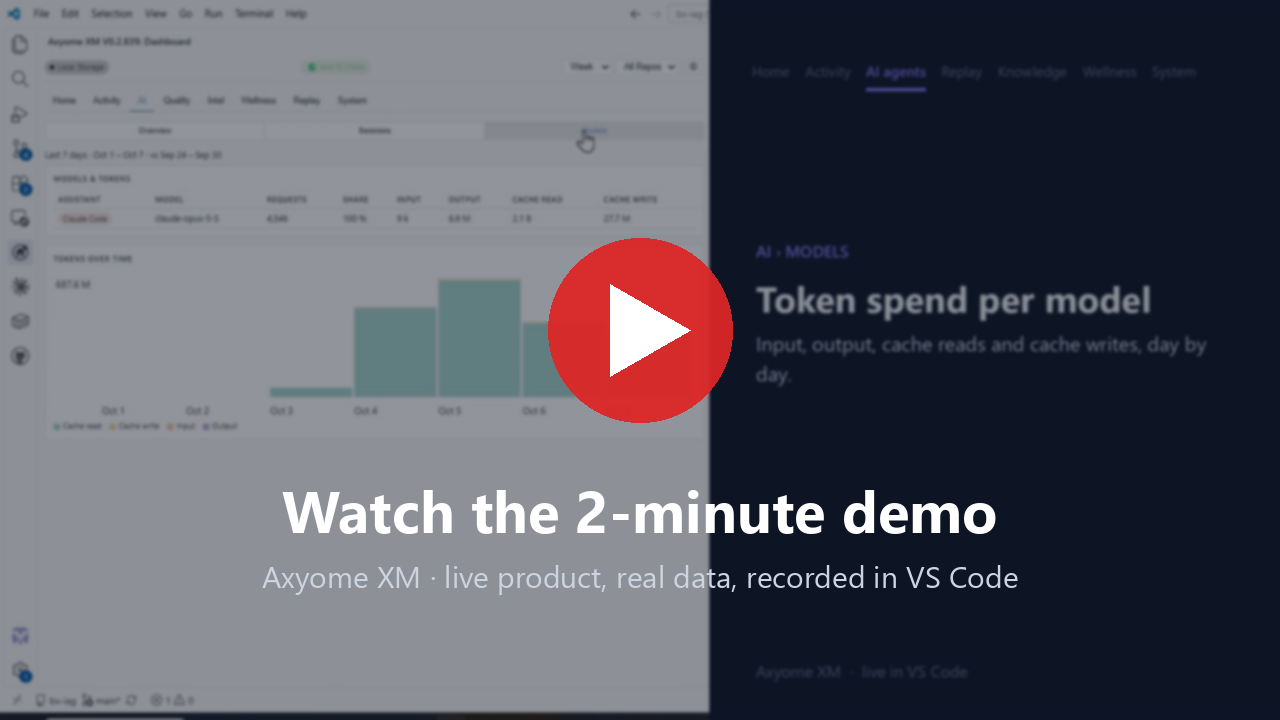
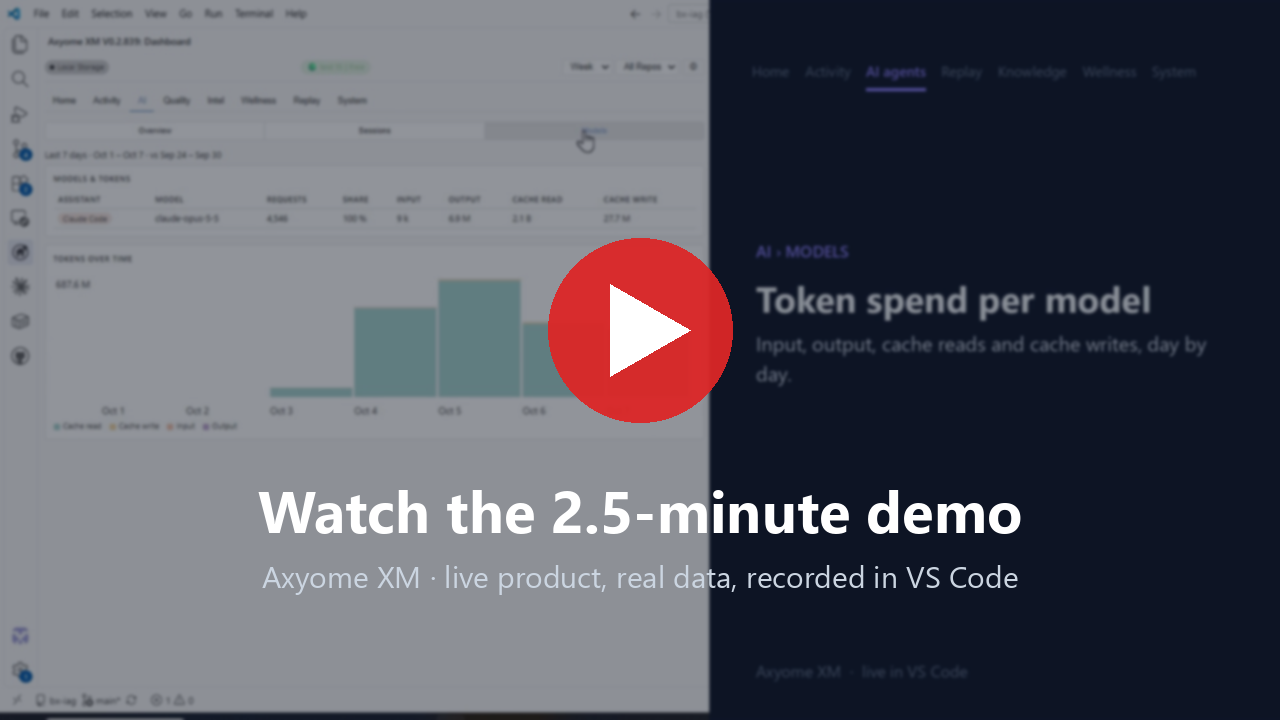
docs: link the re-voiced 2.5-minute demo (XEoMJM7y6J8)
README and demo.md now point to the new demo video (Higgsfield/ElevenLabs
narration) and the thumbnail is regenerated from it.

Changed region(s): [[0.1875, 0.6722, 0.8125, 0.7639]]

diff --git a/docs/demo.md b/docs/demo.md
@@ -1,10 +1,10 @@
 # Demo Scenarios
 
-<a href="https://www.youtube.com/watch?v=q1nN0BN5Jbo">
-  <img src="images/demo-video.png" alt="Watch the 2-minute Axyome XM product demo on YouTube" width="720" />
+<a href="https://www.youtube.com/watch?v=XEoMJM7y6J8">
+  <img src="images/demo-video.png" alt="Watch the 2.5-minute Axyome XM product demo on YouTube" width="720" />
 </a>
 
-▶ **[Watch the 2-minute product demo](https://www.youtube.com/watch?v=q1nN0BN5Jbo)**: live product, real data, recorded in VS Code.
+▶ **[Watch the 2.5-minute product demo](https://www.youtube.com/watch?v=XEoMJM7y6J8)**: live product, real data, recorded in VS Code.
 
 Workflows showing what Axyome XM makes possible. The scenarios below are illustrative: the responses you get depend on your own history.
 
@@ -158,4 +158,4 @@ Copilot calls `axm_wiki_query`, `axm_find_similar_errors`, and `axm_recall_activ
 
 ## Watch the Demo
 
-The 2-minute product demo shows these workflows live: [https://www.youtube.com/watch?v=q1nN0BN5Jbo](https://www.youtube.com/watch?v=q1nN0BN5Jbo)
+The 2.5-minute product demo shows these workflows live: [https://www.youtube.com/watch?v=XEoMJM7y6J8](https://www.youtube.com/watch?v=XEoMJM7y6J8)

diff --git a/README.md b/README.md
@@ -20,11 +20,11 @@ Axyome XM also **looks after the developer**. Session analytics and the producti
 
 ## Demo
 
-<a href="https://www.youtube.com/watch?v=q1nN0BN5Jbo">
-  <img src="docs/images/demo-video.png" alt="Watch the 2-minute Axyome XM product demo on YouTube" width="720" />
+<a href="https://www.youtube.com/watch?v=XEoMJM7y6J8">
+  <img src="docs/images/demo-video.png" alt="Watch the 2.5-minute Axyome XM product demo on YouTube" width="720" />
 </a>
 
-▶ **[Watch the 2-minute product demo](https://www.youtube.com/watch?v=q1nN0BN5Jbo)**: live product, real data, recorded in VS Code.
+▶ **[Watch the 2.5-minute product demo](https://www.youtube.com/watch?v=XEoMJM7y6J8)**: live product, real data, recorded in VS Code.
 
 > *"What was that async error I fixed last week?"*
 
